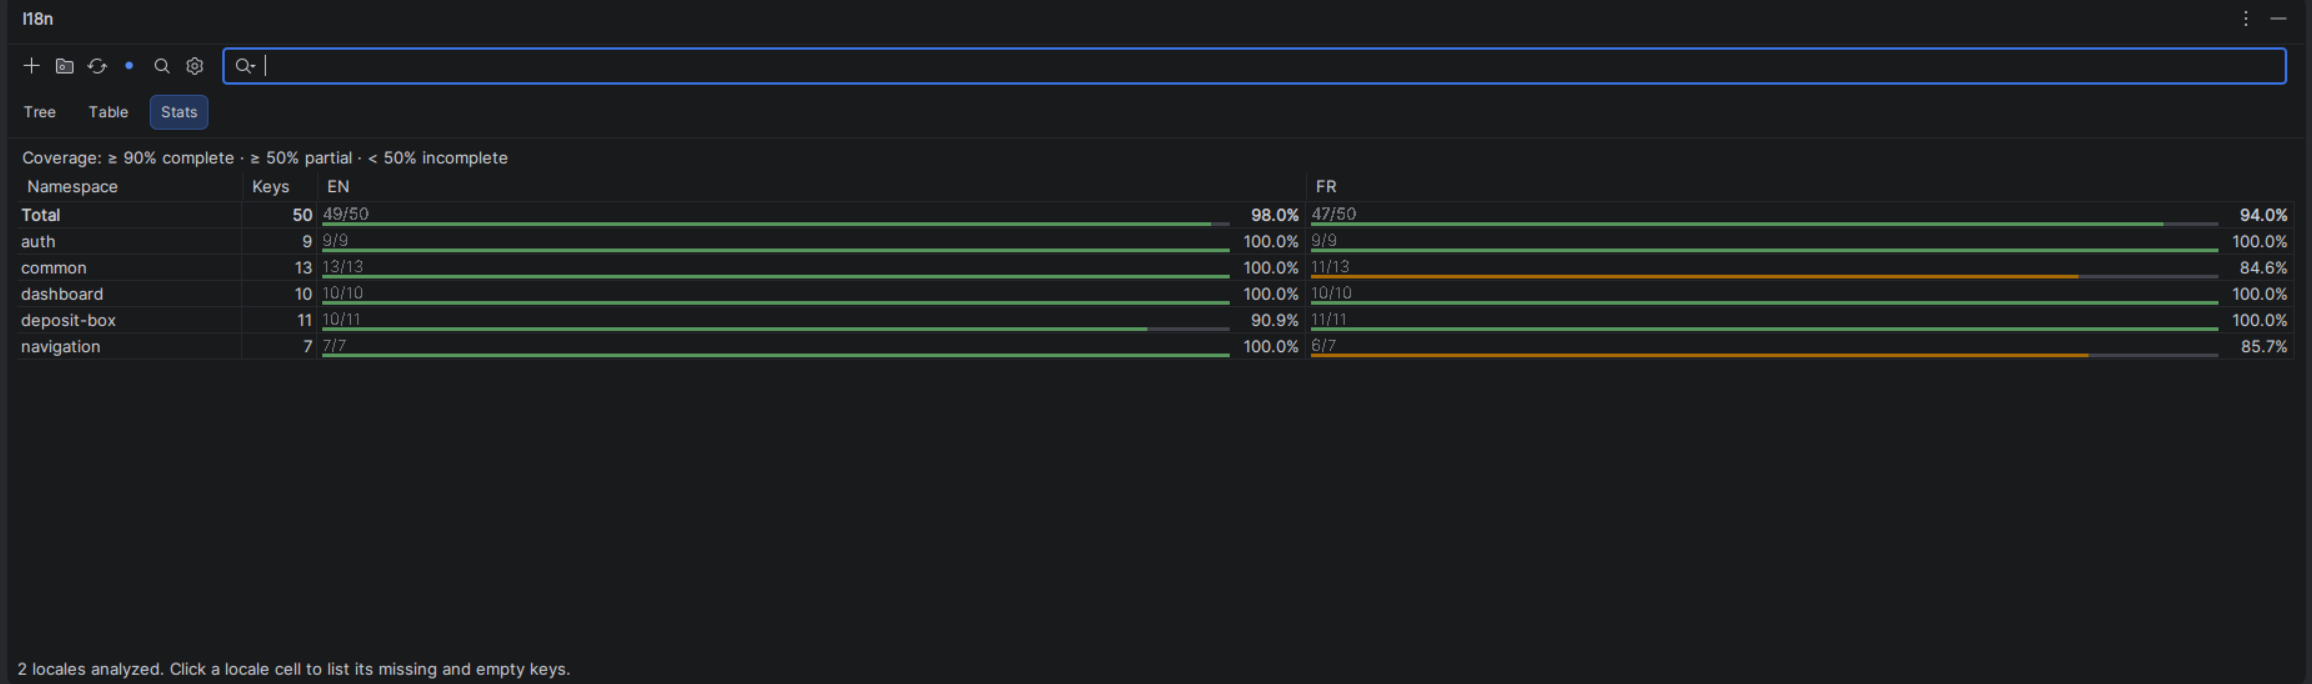
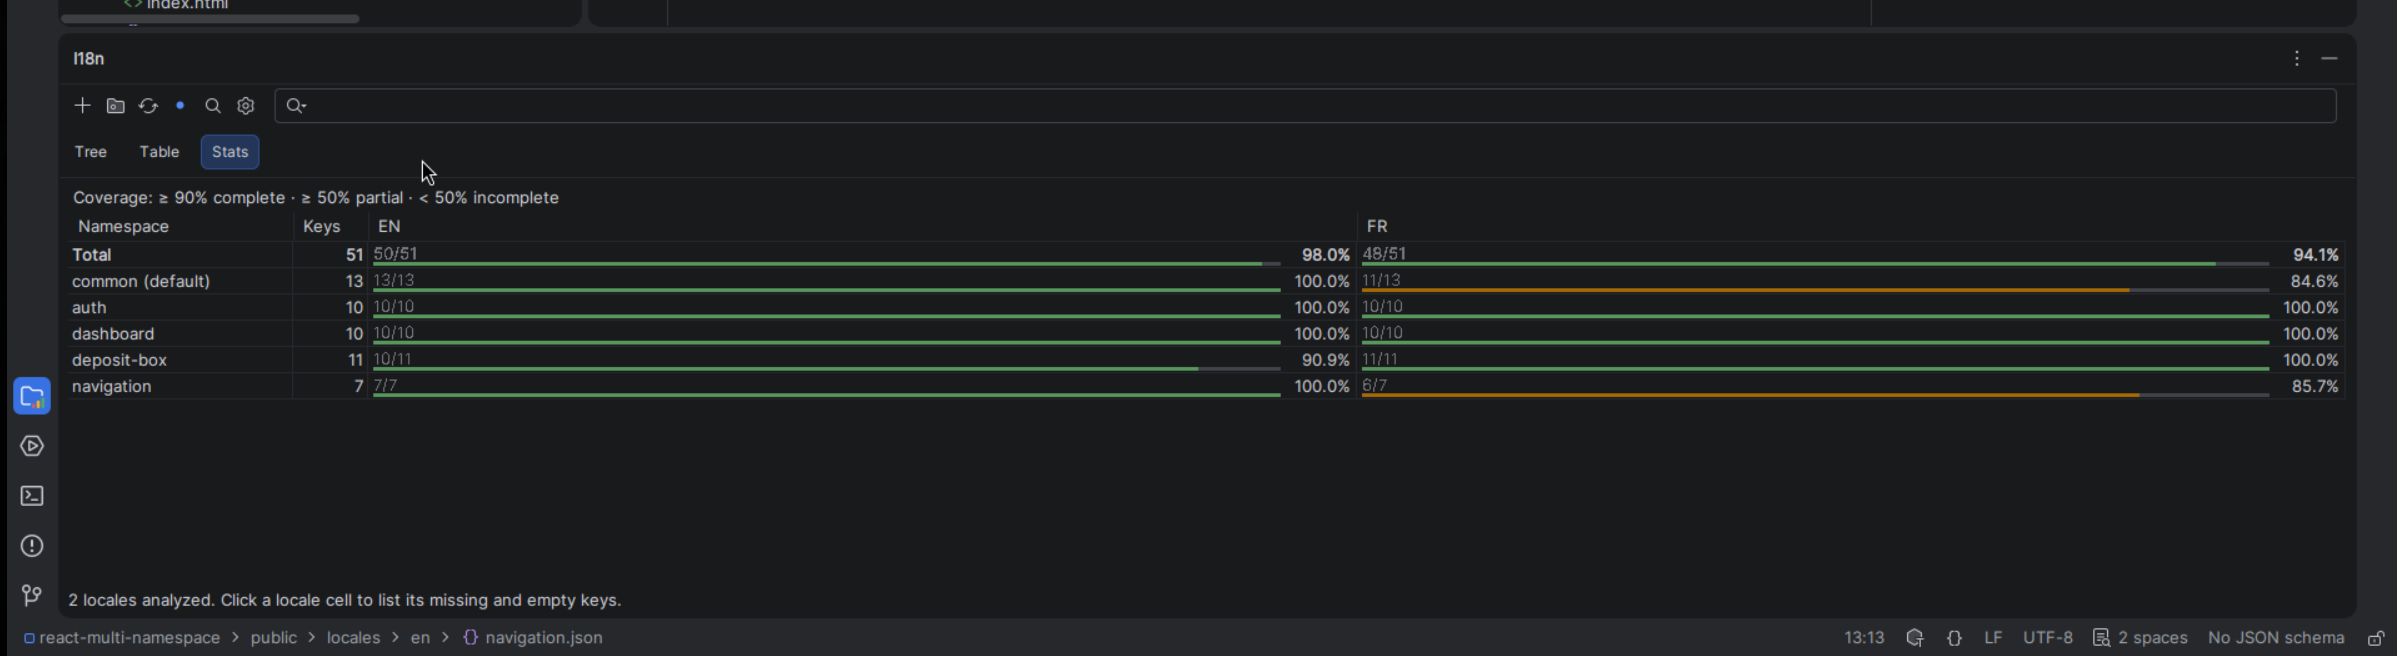
docs(readme): show the default namespace group as it is named since #273 (#278)
The table, its namespace filter and the Stats retaken with the
'common (default)' label; a collapsed tree added above the expanded one,
where the five namespaces and their completeness read at a glance.

diff --git a/docs/SCREENSHOTS_CHECKLIST.md b/docs/SCREENSHOTS_CHECKLIST.md
@@ -19,10 +19,11 @@ Sources : `~/Pictures/Screenshots/Screenshot from 2026-09-14 14-4*.png`, rognée
 
 | Fichier | Contenu | Statut |
 |---|---|---|
+| `toolwindow-tree-namespaces.png` | les cinq groupes repliés avec leur complétude, dont `common (default)` (#273) — capture 15-41-00 | DONE (nouvelle) |
 | `toolwindow-tree.png` | groupes de namespace dépliés (`auth`, `common`, `dashboard`), badges `EN✓ FR✓`, légende | DONE |
-| `toolwindow-table.png` | colonne Namespace, clés sans préfixe, deux cellules *Missing* | DONE |
-| `toolwindow-table-namespace-filter.png` | combo *All namespaces* déroulée | DONE |
-| `toolwindow-stats.png` | matrice Namespace × locale, ligne Total, barres vertes/orange | DONE |
+| `toolwindow-table.png` | colonne Namespace avec `common (default)`, clés sans préfixe, une cellule *Missing* — capture 15-41-24 | DONE (refaite après #273) |
+| `toolwindow-table-namespace-filter.png` | combo *All namespaces* déroulée, `common (default)` en tête — capture 15-41-35 | DONE (refaite après #273) |
+| `toolwindow-stats.png` | matrice Namespace × locale, ligne Total, `common (default)`, barres vertes/orange — capture 15-41-44 | DONE (refaite après #273) |
 | `toolwindow-stats-popup.png` | popup `common — 'fr': 2 missing, 0 empty — reference: en` sous la cellule | DONE |
 | `gutter-icons.png` | `DepositBox.tsx` avec badges vert / orange / rouge | DONE (refaite) |
 | `gutter-icons-tooltip.png` | tooltip *Partial translation (1/2 locales)* | DONE (refaite) |
@@ -70,7 +71,7 @@ Sources : `~/Pictures/Screenshots/Screenshot from 2026-09-14 14-4*.png`, rognée
 
 | Statut | Nombre |
 |--------|--------|
-| Refaites le 2026-09-14 | 14 |
+| Refaites le 2026-09-14 | 15 |
 | À refaire | 1 (`toolwindow-table-orphans`) |
 | À vérifier | 2 (`sync-missing-keys`, `navigation`) |
 | Inchangées | 15 |

diff --git a/README.md b/README.md
@@ -234,7 +234,9 @@ Keys grouped by **namespace**, then by segment. Every key carries its status thr
 - **Enter** or double-click edits the key, **F4** opens the translation file at the key, typing jumps to a key
 - Right-click: edit, open file, copy key
 - A permanent legend sits at the bottom
+- The keys of the default namespace sit in a group named after it — `common (default)` — when the configuration names a single one
 
+![Tool Window Tree — namespaces](docs/img/toolwindow-tree-namespaces.png)
 ![Tool Window Tree](docs/img/toolwindow-tree.png)
 
 ### Table View
